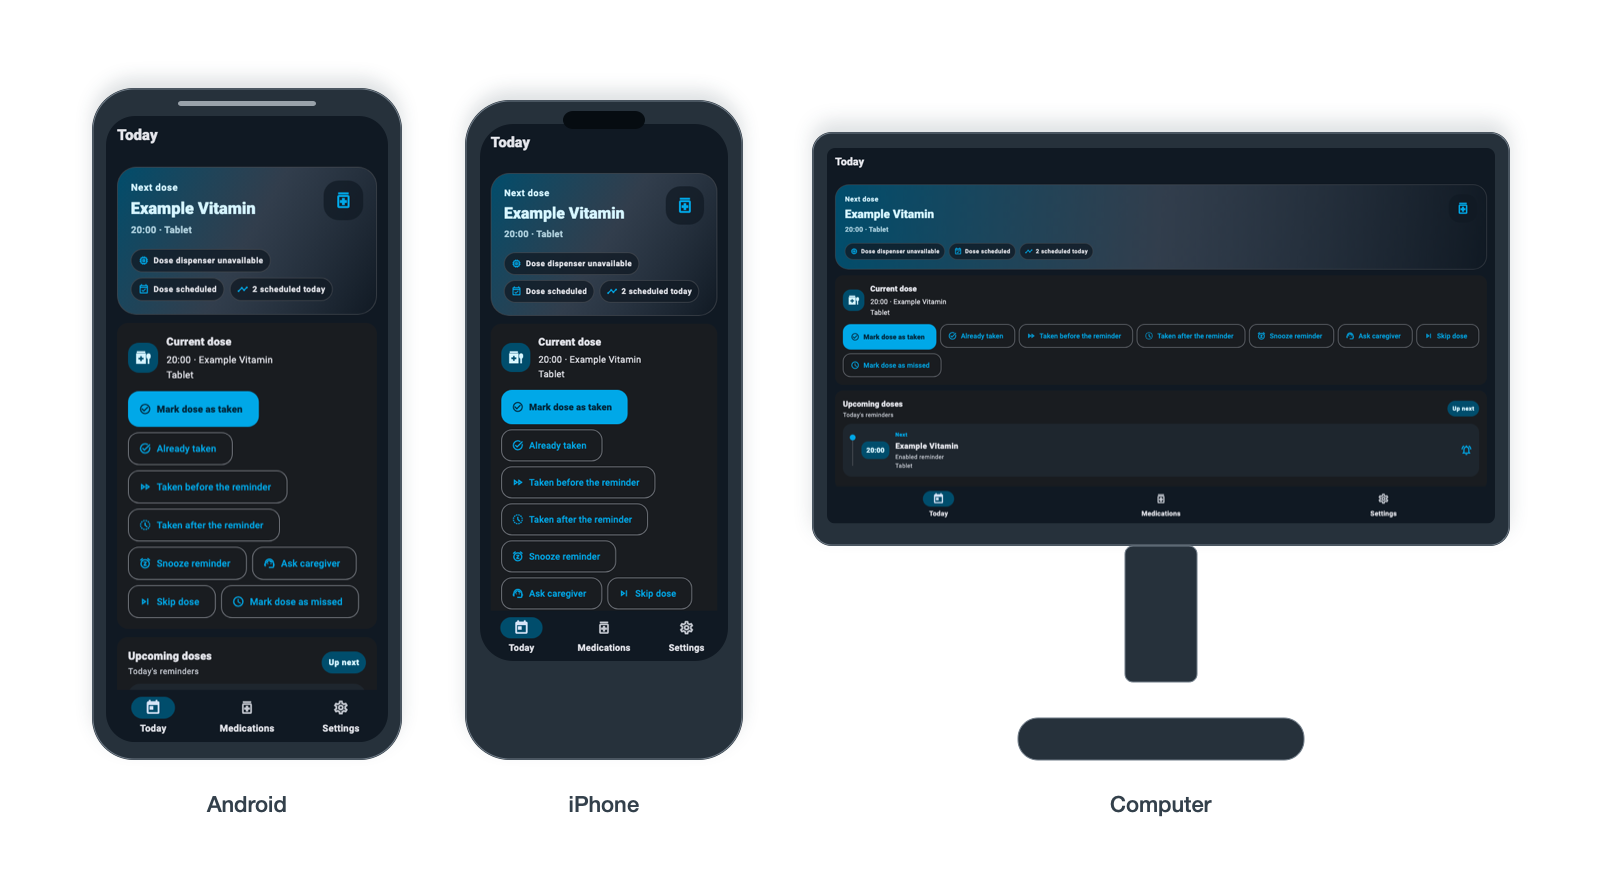
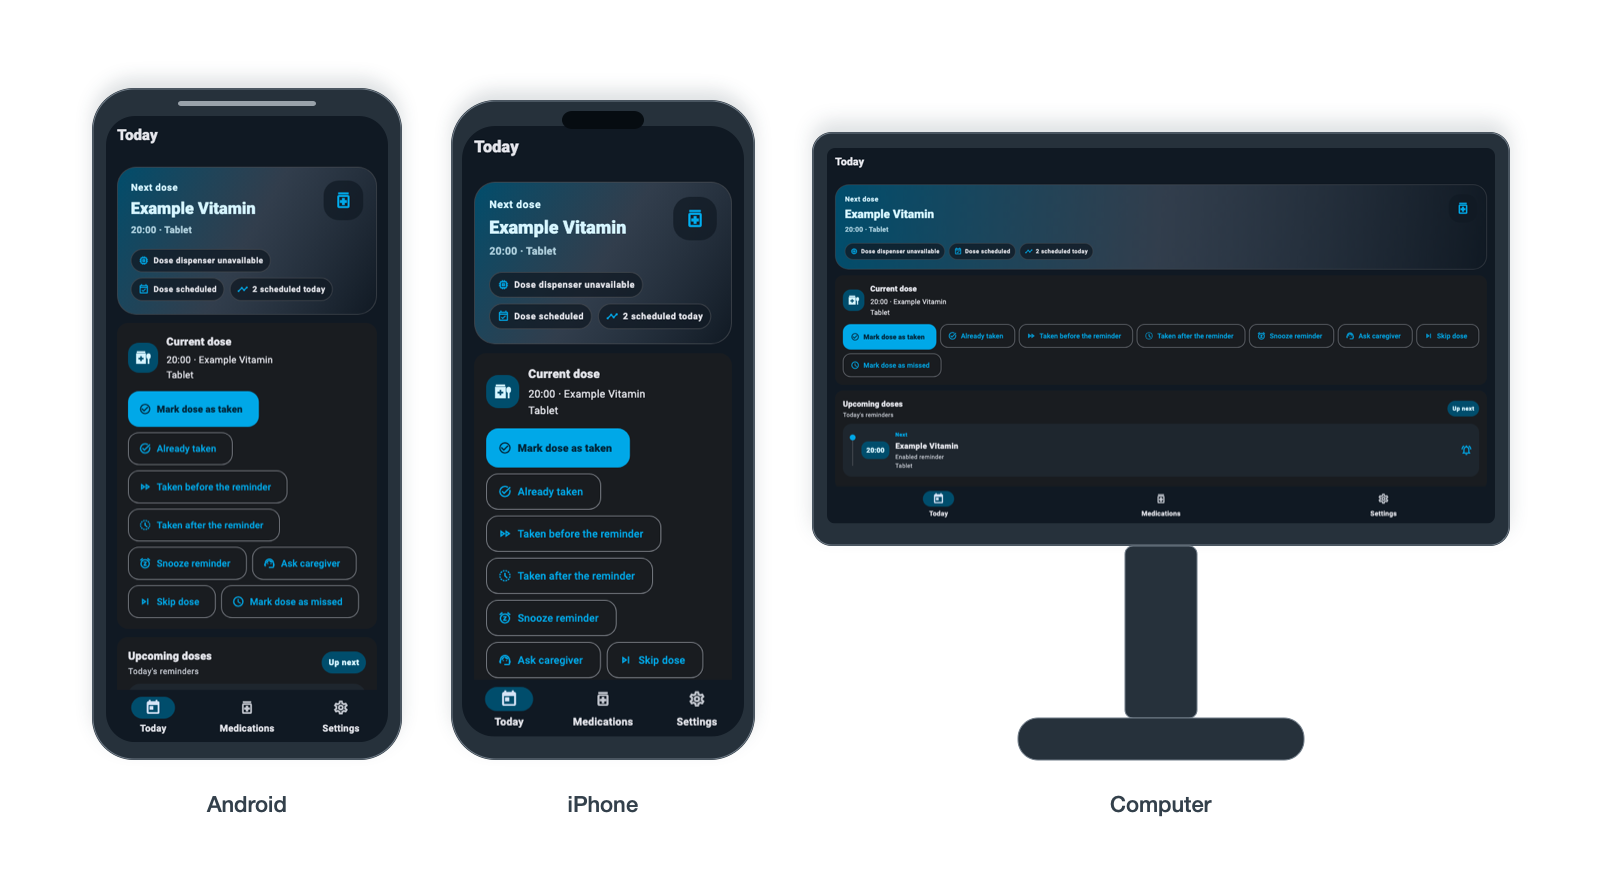
docs(readme): address showcase review

Changed region(s): [[0.2812, 0.092, 0.4688, 0.8591], [0.6875, 0.767, 0.75, 0.8284], [0.3438, 0.8898, 0.4062, 0.9205]]

diff --git a/tool/readme_media/device_showcase/render.swift b/tool/readme_media/device_showcase/render.swift
@@ -63,6 +63,10 @@ func drawScreen(_ context: CGContext, image: CGImage, in rect: CGRect, radius: C
 
 func label(_ context: CGContext, _ text: String, centerX: CGFloat, baseline: CGFloat) {
   let font = CTFontCreateWithName("HelveticaNeue-Medium" as CFString, 22, nil)
+  let postScriptName = CTFontCopyPostScriptName(font) as String
+  guard postScriptName == "HelveticaNeue-Medium" else {
+    fatalError("HelveticaNeue-Medium resolved as \(postScriptName)")
+  }
   let attributes: [NSAttributedString.Key: Any] = [
     NSAttributedString.Key(kCTFontAttributeName as String): font,
     NSAttributedString.Key(kCTForegroundColorAttributeName as String): color(0x27313a),
@@ -109,14 +113,14 @@ drawScreen(context, image: android, in: androidScreen, radius: 29)
 fill(context, CGRect(x: 178, y: 101, width: 138, height: 5), color(0x87919a), radius: 3)
 
 // iPhone: a slightly smaller frame provides a distinct physical silhouette.
-let iphoneOuter = CGRect(x: 465, y: 100, width: 278, height: 660)
-let iphoneScreen = CGRect(x: 480, y: 124, width: 248, height: 537)
+let iphoneOuter = CGRect(x: 451, y: 100, width: 304, height: 660)
+let iphoneScreen = CGRect(x: 462, y: 126, width: 282, height: 610.656)
 context.setShadow(offset: CGSize(width: 0, height: 10), blur: 18, color: shadow)
 fill(context, iphoneOuter, graphite, radius: 45)
 context.setShadow(offset: .zero, blur: 0, color: nil)
 stroke(context, iphoneOuter.insetBy(dx: 1, dy: 1), rim, radius: 44)
 drawScreen(context, image: iphone, in: iphoneScreen, radius: 33)
-fill(context, CGRect(x: 563, y: 111, width: 82, height: 18), color(0x080b0e), radius: 10)
+fill(context, CGRect(x: 562, y: 111, width: 82, height: 18), color(0x080b0e), radius: 10)
 
 // Desktop: screen retains 1366:768 aspect ratio; monitor, neck, and base make it unmistakably physical.
 let monitorOuter = CGRect(x: 812, y: 132, width: 698, height: 414)
@@ -126,8 +130,8 @@ fill(context, monitorOuter, graphite, radius: 20)
 context.setShadow(offset: .zero, blur: 0, color: nil)
 stroke(context, monitorOuter.insetBy(dx: 1, dy: 1), rim, radius: 19)
 drawScreen(context, image: desktop, in: monitorScreen, radius: 8)
-fill(context, CGRect(x: 1125, y: 546, width: 72, height: 136), graphite, radius: 8)
-stroke(context, CGRect(x: 1125, y: 546, width: 72, height: 136), rim, radius: 8)
+fill(context, CGRect(x: 1125, y: 546, width: 72, height: 172), graphite, radius: 8)
+stroke(context, CGRect(x: 1125, y: 546, width: 72, height: 172), rim, radius: 8)
 fill(context, CGRect(x: 1018, y: 718, width: 286, height: 42), graphite, radius: 20)
 stroke(context, CGRect(x: 1018, y: 718, width: 286, height: 42), rim, radius: 20)
 

diff --git a/tool/readme_media/today_screen_capture_test.dart b/tool/readme_media/today_screen_capture_test.dart
@@ -24,6 +24,7 @@ import '../../mobile_app/dosey_app/test/support/fake_app_scope_dependencies.dart
 final _captureDate = DateTime.utc(2040, 1, 2, 9);
 
 void main() {
+  TestWidgetsFlutterBinding.ensureInitialized();
   setUpAll(_loadFlutterFonts);
 
   test('Confirmed taken uses Roboto w800 metrics', () {
@@ -119,7 +120,12 @@ void main() {
         expect(markTakenStyle.fontFamily, 'Roboto');
         expect(markTakenStyle.fontWeight, FontWeight.w800);
         expect(tester.getSize(markTaken).width, lessThan(180));
-        expect(find.text('DEBUG'), findsNothing);
+        expect(
+          tester
+              .widget<MaterialApp>(find.byType(MaterialApp))
+              .debugShowCheckedModeBanner,
+          isFalse,
+        );
         expect(
           Theme.of(tester.element(find.byType(DoseyShell))).useMaterial3,
           isTrue,

diff --git a/README.md b/README.md
@@ -68,6 +68,7 @@ The physical dispenser remains pending. The ESP32-C6 controller, Bluetooth lifec
 Start with the app, its documentation, or an open issue. Contributions that improve clarity, local safety behavior, testing, and reproducible hardware evidence are especially useful.
 
 - Read the [app guide](mobile_app/dosey_app/README.md) for local setup and current app scope.
+- See [README media](tool/readme_media/README.md) to verify or intentionally refresh the Today captures and device showcase.
 - Read the [protocol](docs/protocol.md), [controller bench runbook](docs/controller_bench_runbook.md), and [hardware validation record](firmware/HARDWARE_VALIDATION.md) before working with hardware.
 - Review [open issues](https://github.com/SloppyBobbert/Dosey/issues) or browse the [repository](https://github.com/SloppyBobbert/Dosey).
 - See the [local backup format](docs/local_backup_format.md) and [Robot software demo qualification record](mobile_app/dosey_app/ROBOT_SOFTWARE_DEMO_QUALIFICATION.md) for current evidence and limits.
@@ -81,7 +82,7 @@ Dosey/
 ├── mobile_app/dosey_app/   # Flutter application
 ├── mechanical/             # Daviky carousel, servo, LEGO shell, and assembly notes
 ├── docs/                   # Protocols, test runbooks, and backup documentation
-└── media/                  # Hardware photos and videos
+└── media/                  # Hardware media and rendered README showcase assets
 ```
 
 ## Technical details

diff --git a/tool/readme_media/README.md b/tool/readme_media/README.md
@@ -1,0 +1,17 @@
+# README media
+
+From the repository root, verify the Today captures with the app's deterministic UTC clock:
+
+```sh
+cd mobile_app/dosey_app
+TZ=UTC flutter test ../../tool/readme_media/today_screen_capture_test.dart
+```
+
+When an intentional Today UI change needs new reviewed captures, add `--update-goldens` to that command. Then return to the repository root and render the device composition:
+
+```sh
+cd ../..
+swift tool/readme_media/device_showcase/render.swift
+```
+
+The capture test injects `DateTime.utc(2040, 1, 2, 9)` through `ControllableAppClock`; `TZ=UTC` also keeps any platform-local behavior stable. The desktop image is a responsive presentation preview, not a shipped or qualified Personal Today app.
